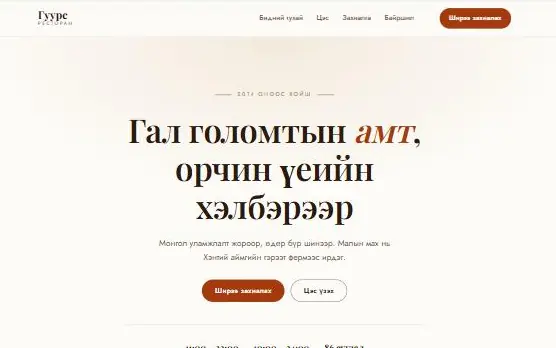
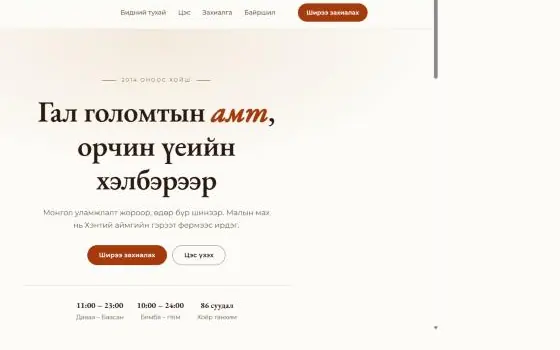
Кирилл үсгийг бүрэн дэмждэггүй хоёр фонтыг сольсон
Playfair Display болон Jost нь Google Fonts дээр cyrillic-ext
дэд олонлоггүй. Энэ нь дараах үсгүүдийг агуулдаггүй гэсэн үг:

    Ө ө  U+04E8/04E9
    Ү ү  U+04AE/04AF

Монгол хэлэнд эдгээр нь байнга тохиолддог тул хөтөч тэднийг
системийн өөр фонтоор орлуулж, нэг өгүүлбэрийн дотор хоёр
өөр фонт холилдож байв. Яг энэ нь «вэбийн фонт жигд биш»
гэсэн гомдлын шалтгаан.

Миний өмнөх шалгалт зөвхөн «cyrillic гэсэн үг байна уу» гэж
хайсан нь хангалтгүй байсан: Google Fonts-ийн cyrillic дэд
олонлог нь U+0400–045F бөгөөд Ө ү түүнд багтдаггүй. Файлын
тайлбарт «хоёулаа кирилл үсэг бүрэн» гэж бичсэн нь буруу байв.

Солилт:
  guurs — Playfair Display → EB Garamond, Jost → Montserrat
  utaa  — Playfair Display → Cormorant

Италикийг хадгалсан (хоёр загварт хоёуланд нь хэрэглэгддэг).

Шинэ хэрэгсэл: _data/font-check.py — unicode-range-уудыг
задалж, монгол хэлэнд шаардлагатай 10 үсэг үнэхээр багтаж
байгааг шалгана. Ашиглаж буй 18 фонтыг шалгахад зөвхөн энэ
хоёр унасан.

Баталгаа: хөтөч дээр canvas-аар Ө, ү, А, Э-ийн өргөнийг
фонттой ба фонтгүй үед хэмжихэд бүгд ялгаатай — өөрөөр хэлбэл
бүх үсэг жинхэнэ фонтоос ирж байна.

Урьдчилан харах зургийг шинэчилсэн.

diff --git a/templates/restaurant/utaa.html b/templates/restaurant/utaa.html
@@ -7,8 +7,10 @@
 <meta name="description" content="Харанхуй бистро, бар маягийн ресторан загвар.">
 <link rel="icon" href="../../images/logo.webp">
 <link rel="preconnect" href="https://fonts.googleapis.com"><link rel="preconnect" href="https://fonts.gstatic.com" crossorigin>
-<!-- Playfair Display / Manrope — хоёулаа кирилл үсэг бүрэн. -->
-<link href="https://fonts.googleapis.com/css2?family=Playfair+Display:wght@500;600&family=Manrope:wght@400;500;600&display=swap" rel="stylesheet">
+<!-- Фонтыг сольсон: Playfair Display болон Jost нь cyrillic-ext дэд
+     олонлоггүй тул Ө ө Ү ү үсгийг агуулдаггүй — тэдгээр нь системийн
+     фонтоор орлогдож бичвэр жигд бус болдог. _data/font-check.py үз. -->
+<link href="https://fonts.googleapis.com/css2?family=Cormorant:ital,wght@0,500;0,600;1,500&family=Manrope:wght@400;500;600&display=swap" rel="stylesheet">
 <style>
 :root{
   /* Элементийн хүрээ. --line нь зураасанд, энэ нь
@@ -18,7 +20,7 @@
   --fg:#F3EEE4; --mut:#AFA495; --mut2:#9A8F7F;
   --acc:#D4A845; --acc-d:#B38C2F; --ink:#0E0C0A;
   --line:rgba(243,238,228,.10); --line2:rgba(243,238,228,.2);
-  --ff-h:'Playfair Display',Georgia,serif; --ff-b:'Manrope',system-ui,sans-serif;
+  --ff-h:'Cormorant',Georgia,serif; --ff-b:'Manrope',system-ui,sans-serif;
   --pad:clamp(1.2rem,5vw,4.5rem);
   --s2:1rem; --s3:1.5rem; --s4:2rem; --s5:3rem; --s6:4.5rem; --s7:6.5rem;
 }

diff --git a/templates/restaurant/guurs.html b/templates/restaurant/guurs.html
@@ -8,9 +8,10 @@
 <link rel="icon" href="../../images/logo.webp">
 <link rel="preconnect" href="https://fonts.googleapis.com">
 <link rel="preconnect" href="https://fonts.gstatic.com" crossorigin>
-<!-- Playfair Display / Jost — хоёулаа кирилл үсэг бүрэн.
-     Сан нь Karla санал болгосон ч кирилл дэмжихгүй тул Jost авав. -->
-<link href="https://fonts.googleapis.com/css2?family=Playfair+Display:wght@500;600;700&family=Jost:wght@400;500;600&display=swap" rel="stylesheet">
+<!-- Фонтыг сольсон: Playfair Display болон Jost нь cyrillic-ext дэд
+     олонлоггүй тул Ө ө Ү ү үсгийг агуулдаггүй — тэдгээр нь системийн
+     фонтоор орлогдож бичвэр жигд бус болдог. _data/font-check.py үз. -->
+<link href="https://fonts.googleapis.com/css2?family=EB+Garamond:ital,wght@0,500;0,600;0,700;1,500&family=Montserrat:wght@400;500;600&display=swap" rel="stylesheet">
 <style>
 :root{
   /* Элементийн хүрээ. --line нь зураасанд, энэ нь
@@ -21,8 +22,8 @@
   --acc:#A33B0F; --acc-d:#86300C; --on-acc:#FFFFFF;
   --gold:#8A5D15;
   --line:#E4D7C6; --line2:#CDB99F;
-  --ff-h:'Playfair Display',Georgia,serif;
-  --ff-b:'Jost',system-ui,-apple-system,sans-serif;
+  --ff-h:'EB Garamond',Georgia,serif;
+  --ff-b:'Montserrat',system-ui,-apple-system,sans-serif;
   --pad:clamp(1.2rem,5vw,4rem);
   --s2:1rem; --s3:1.5rem; --s4:2rem; --s5:3rem; --s6:4.5rem; --s7:6.5rem;
 }

diff --git a/templates/_data/font-check.py b/templates/_data/font-check.py
@@ -1,0 +1,83 @@
+# -*- coding: utf-8 -*-
+"""Google Fonts дээрх фонт монгол кирилл үсгийг бүрэн дэмжих эсэх.
+
+Яагаад «cyrillic байна» гэдэг хангалтгүй вэ: Google Fonts-ийн
+`cyrillic` дэд олонлог нь U+0400–045F-ийг хамардаг. Монгол хэлний
+хоёр гол үсэг үүнд БАГТАХГҮЙ:
+
+    Ө ө  = U+04E8 / U+04E9   →  cyrillic-ext дотор
+    Ү ү  = U+04AE / U+04AF   →  cyrillic дотор (U+04B0-04B1 биш!)
+
+Иймд cyrillic-ext байхгүй фонт сонговол Ө үсэг өөр фонтоор орлогдож,
+бичвэр жигд бус харагдана. Энэ скрипт unicode-range-уудыг задалж,
+шаардлагатай кодууд үнэхээр багтаж байгааг шалгана.
+
+Хэрэглээ:
+    python font-check.py "Lora" "Jost" "Golos Text"
+"""
+import re
+import subprocess
+import sys
+
+UA = ('Mozilla/5.0 (Windows NT 10.0; Win64; x64) AppleWebKit/537.36 '
+      '(KHTML, like Gecko) Chrome/131.0 Safari/537.36')
+
+# Монгол хэлэнд зайлшгүй шаардлагатай кирилл үсгүүд
+NEED = {
+    0x04E8: u'Ө', 0x04E9: u'ө',
+    0x04AE: u'Ү', 0x04AF: u'ү',
+    0x0401: u'Ё', 0x0451: u'ё',
+    0x042D: u'Э', 0x044D: u'э',
+    0x0419: u'Й', 0x0439: u'й',
+}
+
+
+def ranges_for(css):
+    """@font-face бүрийн unicode-range-ийг (эхлэл, төгсгөл) болгон задална."""
+    out = []
+    for m in re.finditer(r'unicode-range:\s*([^;]+);', css):
+        for part in m.group(1).split(','):
+            part = part.strip()
+            mm = re.match(r'U\+([0-9A-Fa-f]+)(?:-([0-9A-Fa-f]+))?$', part)
+            if not mm:
+                continue
+            lo = int(mm.group(1), 16)
+            hi = int(mm.group(2), 16) if mm.group(2) else lo
+            out.append((lo, hi))
+    return out
+
+
+def check(family):
+    url = ('https://fonts.googleapis.com/css2?family=%s:wght@400&display=swap'
+           % family.replace(' ', '+'))
+    css = subprocess.run(['curl', '-s', '-A', UA, url],
+                         capture_output=True, text=True).stdout
+    if '@font-face' not in css:
+        return family, None, [u'фонт олдсонгүй']
+    rs = ranges_for(css)
+    missing = [ch for cp, ch in sorted(NEED.items())
+               if not any(lo <= cp <= hi for lo, hi in rs)]
+    subsets = re.findall(r'/\*\s*([a-z-]+)\s*\*/', css)
+    return family, sorted(set(subsets)), missing
+
+
+def main():
+    fams = sys.argv[1:]
+    if not fams:
+        print(__doc__)
+        return
+    bad = 0
+    for f in fams:
+        name, subsets, missing = check(f)
+        if missing:
+            bad += 1
+            print('FAIL  %-20s missing: %s   subsets: %s'
+                  % (name, ' '.join(missing).encode('ascii', 'backslashreplace').decode(),
+                     ','.join(subsets or [])))
+        else:
+            print('ok    %-20s subsets: %s' % (name, ','.join(subsets)))
+    sys.exit(1 if bad else 0)
+
+
+if __name__ == '__main__':
+    main()

diff --git a/templates/_data/make-previews.py b/templates/_data/make-previews.py
@@ -18,7 +18,7 @@ SHOTS = [
  ('pv-tsamhag', '066993-h2g2st'), ('pv-egnee',   '066993-ico2it'),
  ('pv-zah',     '100647-55hh6l'), ('pv-sav',     '100647-v1l4iq'),
  ('pv-tulhuur', '110985-8k3gi2'), ('pv-horshoo', '110985-rz7hvz'),
- ('pv-guurs',   '116207-28w8bq'), ('pv-utaa',    '116207-fa39gn'),
+ ('pv-guurs',   '716253-o90s98'), ('pv-utaa',    '716253-uncxi9'),
  ('pv-navch',   '121548-zcn8dt'), ('pv-togoo',   '121548-9tutsm'),
  ('pv-or',      '126753-ujwpgr'), ('pv-huudas',  '126753-v272kd'),
  ('pv-zurag',   '131837-uz7y29'), ('pv-suljee',  '131837-91tc97'),
